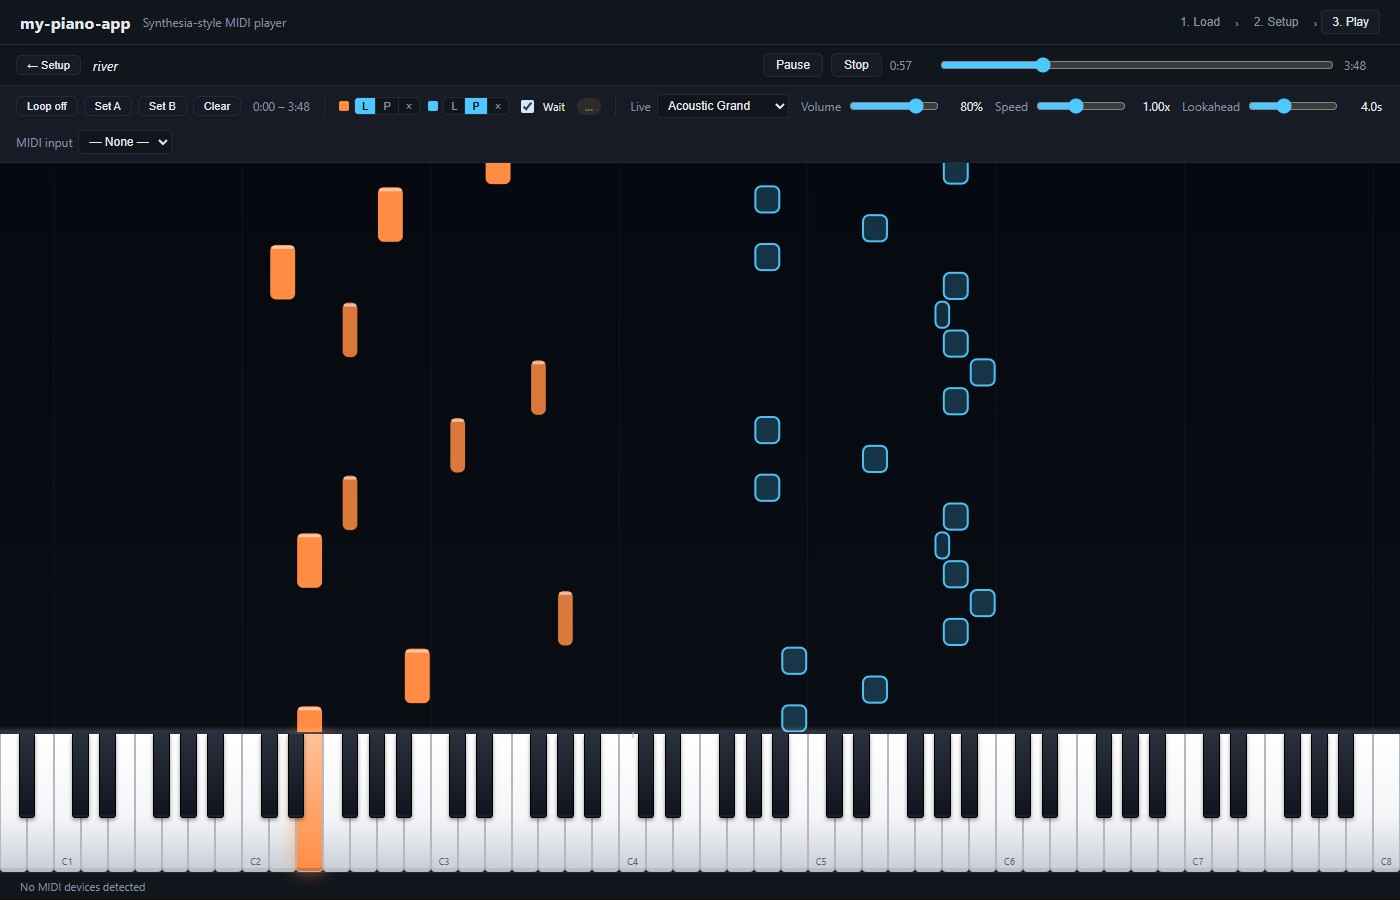
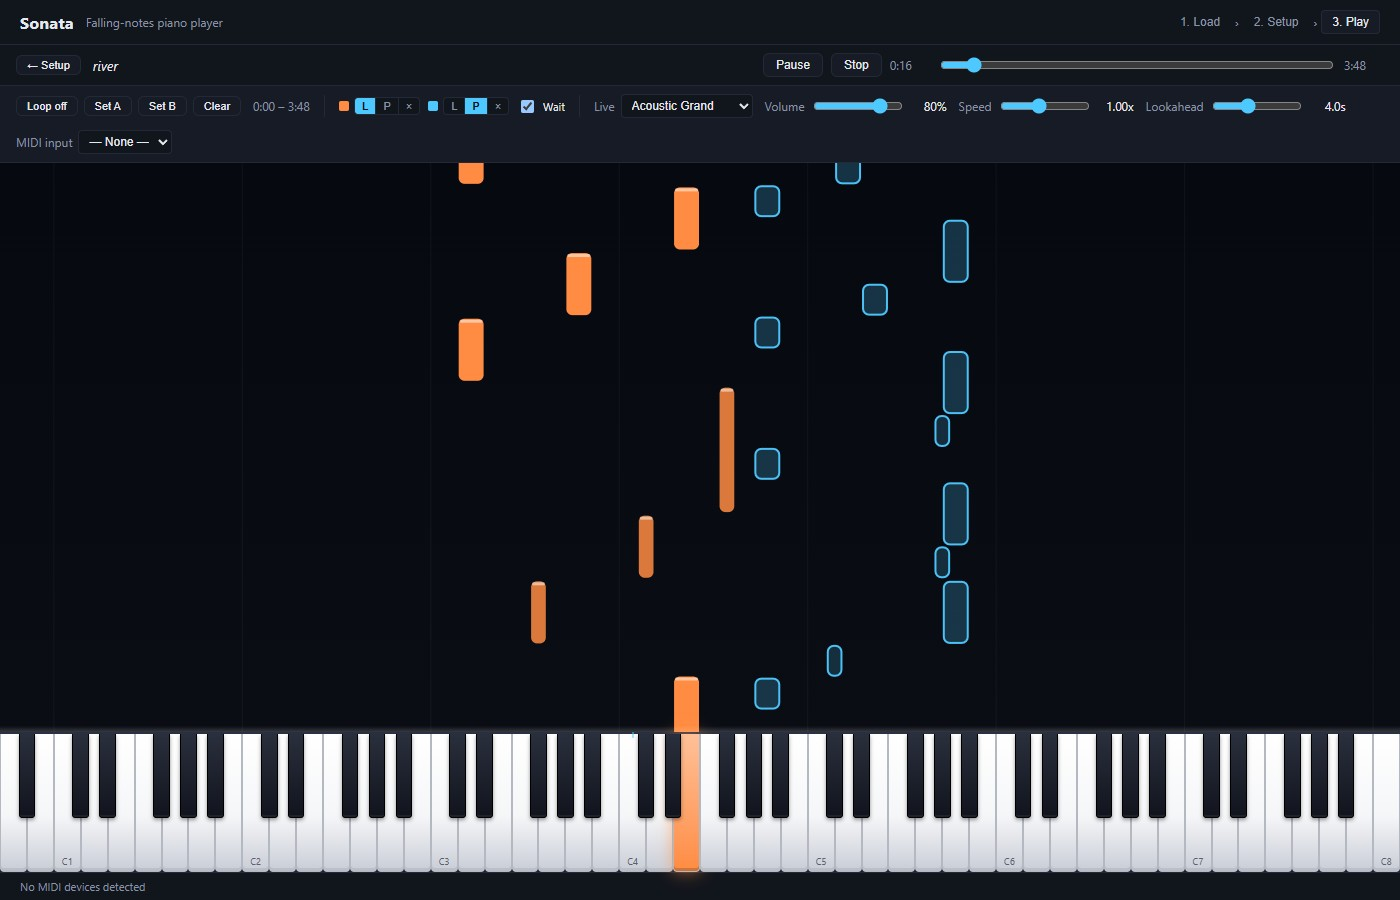
Rename project to Sonata and update branding
Package name, productName, appId, window title, header, and docs now use
Sonata. Tagline is "Falling-notes piano player". Screenshots re-captured.

Claude-Session: https://claude.ai/code/session_01QggmQP2N22SLuzASdw9yis

diff --git a/src/App.tsx b/src/App.tsx
@@ -257,7 +257,7 @@ export function App() {
   return (
     <div className="app">
       <header className="header">
-        <h1>my-piano-app</h1>
+        <h1>Sonata</h1>
         <span className="tagline">Falling-notes piano player</span>
         <div className="spacer" />
         <Breadcrumb

diff --git a/index.html b/index.html
@@ -3,7 +3,7 @@
   <head>
     <meta charset="UTF-8" />
     <meta name="viewport" content="width=device-width, initial-scale=1.0" />
-    <title>my-piano-app</title>
+    <title>Sonata</title>
   </head>
   <body>
     <div id="root"></div>

diff --git a/CLAUDE.md b/CLAUDE.md
@@ -1,4 +1,4 @@
-# my-piano-app
+# Sonata
 
 A falling-notes MIDI piano player, packaged as a desktop app (Electron). Load a `.mid` file, watch falling notes, hear playback, and connect a real piano via Web MIDI to light up keys live.
 
@@ -20,7 +20,7 @@ npm run dev          # Vite + Electron concurrently (recommended)
 npm run dev:web      # browser-only mode at http://127.0.0.1:5173
 npm run start        # run Electron against last build
 npm run build        # produce installer in ./release (electron-builder)
-# install silently: & "release\my-piano-app Setup 0.1.0.exe" /S  -> %LOCALAPPDATA%\Programs\my-piano-app
+# install silently: & "release\Sonata Setup 0.1.0.exe" /S  -> %LOCALAPPDATA%\Programs\Sonata
 npm run build:dir    # unpacked build in ./release/win-unpacked (faster)
 ```
 
